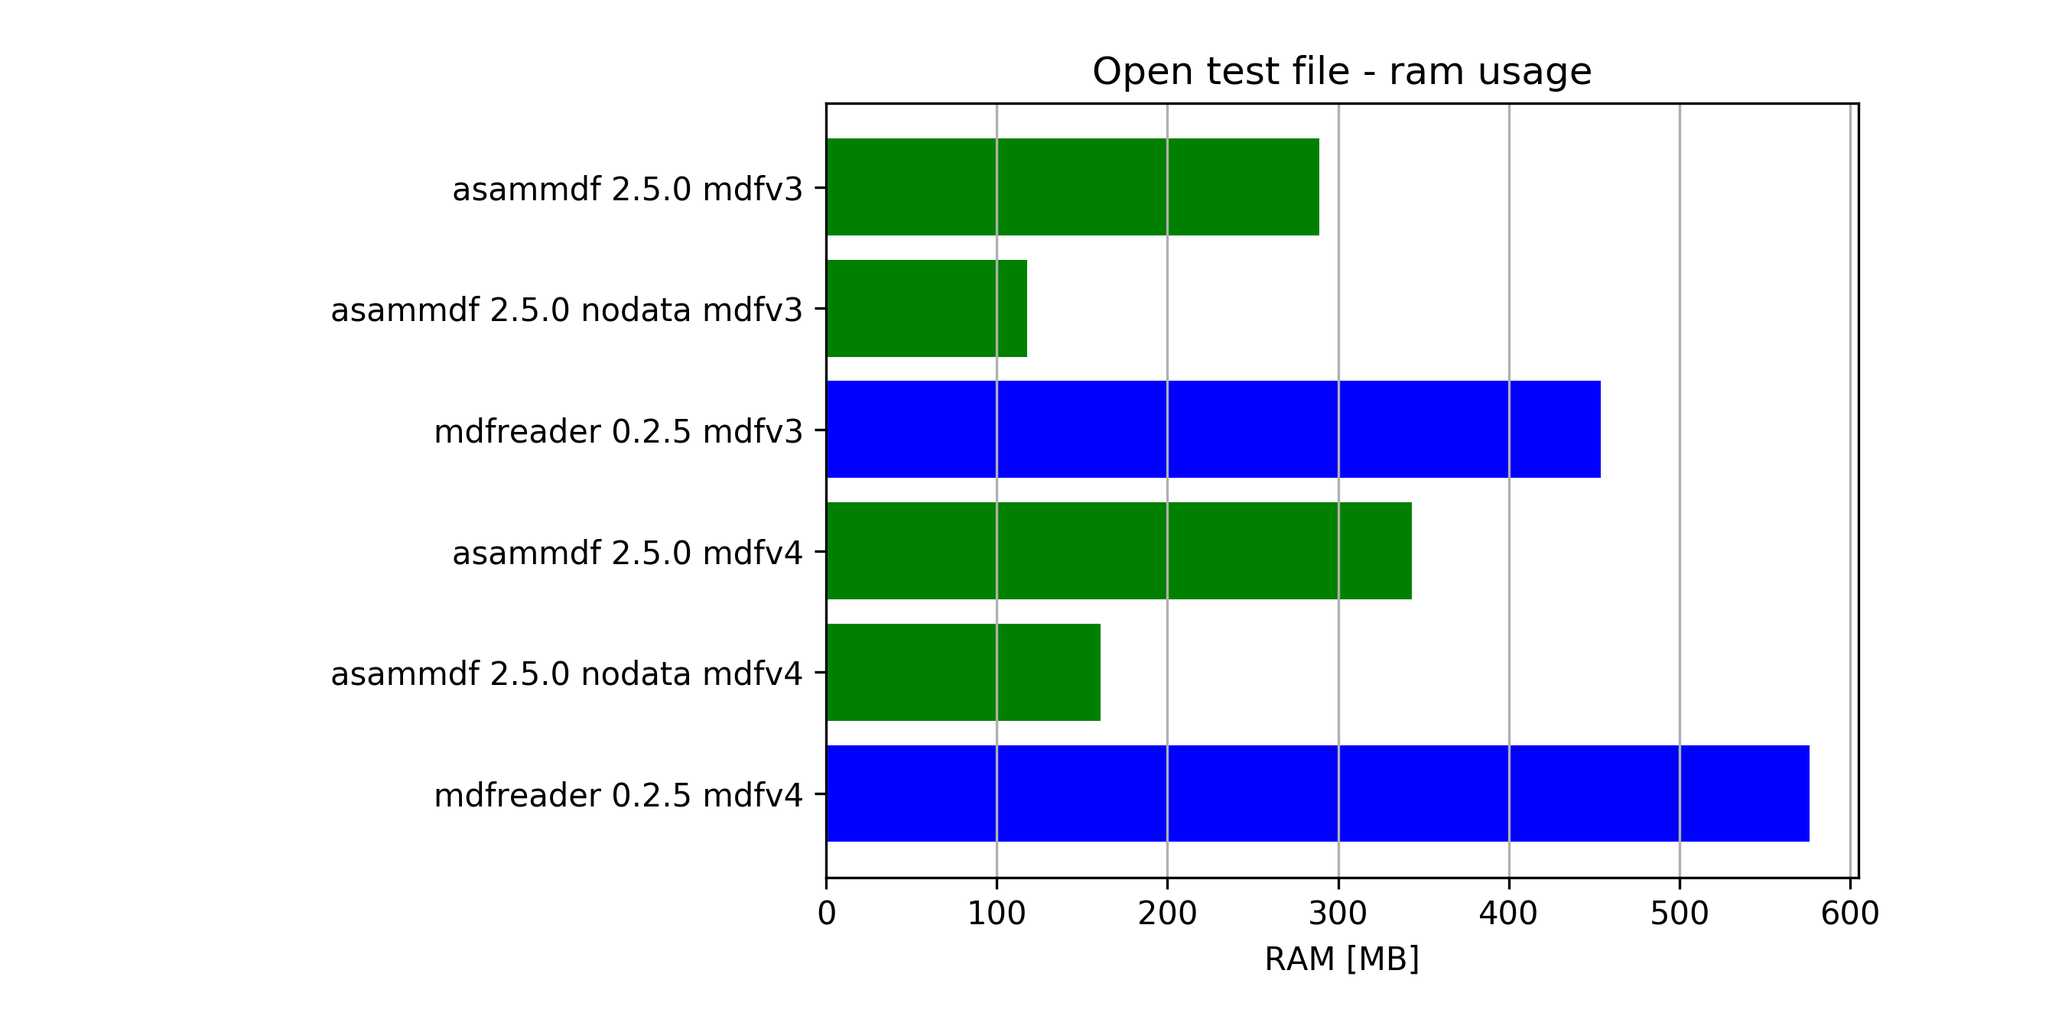
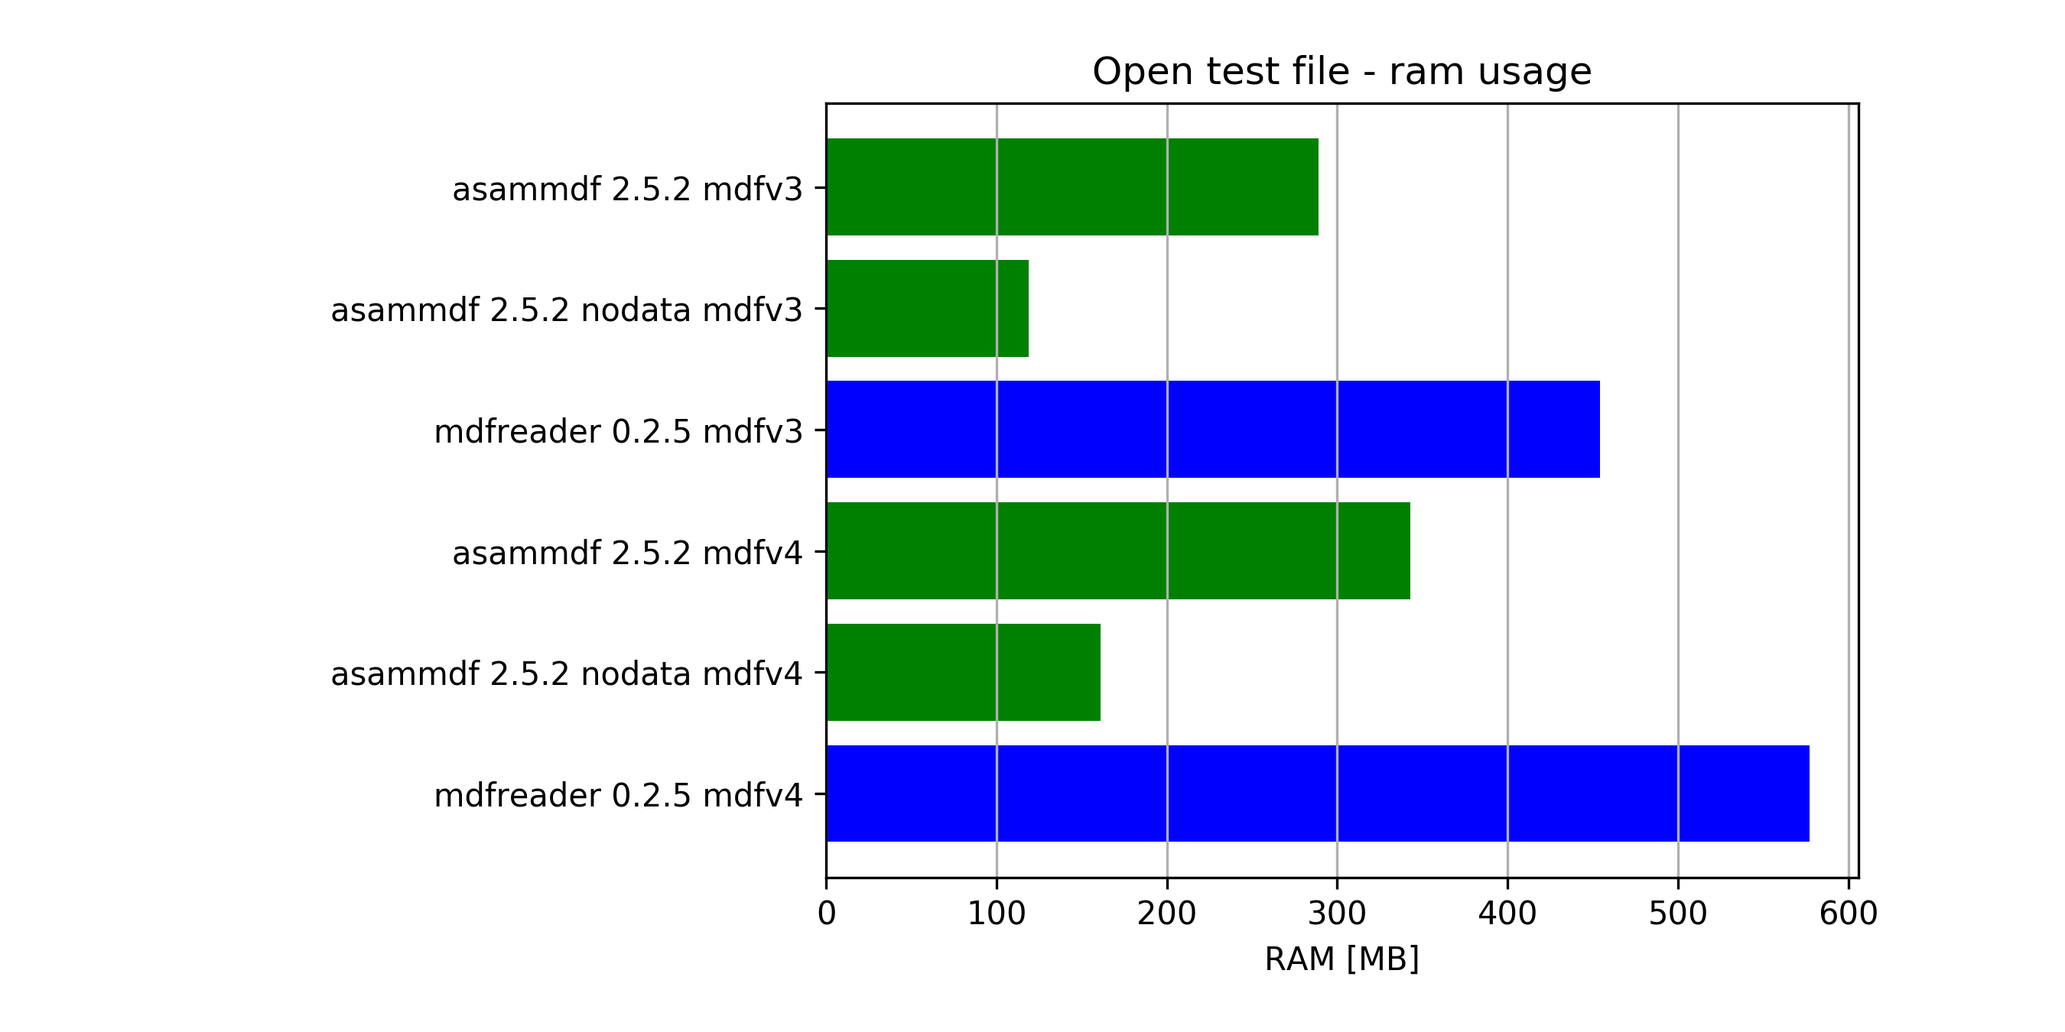
update benchmarks for release 2.5.2

diff --git a/benchmarks/gen_images.py b/benchmarks/gen_images.py
@@ -80,8 +80,8 @@ def f(res, topic, aspect, for_doc=False):
         plt.savefig(name, dpi=300)
 
 
-for file in (r'e:\02__PythonWorkspace\asammdf\benchmarks\results\x64_asammdf_2.5.0_mdfreader_0.2.5.txt',
-              r'e:\02__PythonWorkspace\asammdf\benchmarks\results\x86_asammdf_2.5.0_mdfreader_0.2.5.txt'):
+for file in (r'e:\02__PythonWorkspace\asammdf\benchmarks\results\x64_asammdf_2.5.2_mdfreader_0.2.5.txt',
+              r'e:\02__PythonWorkspace\asammdf\benchmarks\results\x86_asammdf_2.5.2_mdfreader_0.2.5.txt'):
     for topic in ('Open', 'Save', 'Get', 'Convert', 'Merge'):
         for aspect in ('time', 'ram'):
             f(file, topic, aspect)

diff --git a/README.rst b/README.rst
@@ -107,9 +107,12 @@ Benchmark environment
 * Intel64 Family 6 Model 94 Stepping 3, GenuineIntel
 * 16GB installed RAM
 
-Notations used in the results:
+Notations used in the results
 
 * nodata = asammdf MDF object created with load_measured_data=False (raw channel data not loaded into RAM)
+* compression = mdfreader mdf object created with compression=blosc
+* compression bcolz 6 = mdfreader mdf object created with compression=6
+* noDataLoading = mdfreader mdf object read with noDataLoading=True
 
 Files used for benchmark:
 
@@ -120,46 +123,56 @@ Files used for benchmark:
 ================================================== ========= ========
 Open file                                          Time [ms] RAM [MB]
 ================================================== ========= ========
-asammdf 2.5.0 mdfv3                                     1009      289
-asammdf 2.5.0 nodata mdfv3                               663      118
-mdfreader 0.2.5 mdfv3                                   3705      454
-asammdf 2.5.0 mdfv4                                     2031      343
-asammdf 2.5.0 nodata mdfv4                              1690      161
-mdfreader 0.2.5 mdfv4                                  42315      576
+asammdf 2.5.2 mdfv3                                      951      289
+asammdf 2.5.2 nodata mdfv3                               667      119
+mdfreader 0.2.5 mdfv3                                   3628      454
+asammdf 2.5.2 mdfv4                                     2142      343
+asammdf 2.5.2 nodata mdfv4                              1585      161
+mdfreader 0.2.5 mdfv4                                  42997      577
 ================================================== ========= ========
 
 
 ================================================== ========= ========
 Save file                                          Time [ms] RAM [MB]
 ================================================== ========= ========
-asammdf 2.5.0 mdfv3                                      439      293
-asammdf 2.5.0 nodata mdfv3                               462      126
-mdfreader 0.2.5 mdfv3                                  19759     1224
-asammdf 2.5.0 mdfv4                                      691      354
-asammdf 2.5.0 nodata mdfv4                               712      174
-mdfreader 0.2.5 mdfv4                                  17415     1686
+asammdf 2.5.2 mdfv3                                      530      293
+asammdf 2.5.2 nodata mdfv3                               457      126
+mdfreader 0.2.5 mdfv3                                  19931     1225
+asammdf 2.5.2 mdfv4                                      705      354
+asammdf 2.5.2 nodata mdfv4                               707      175
+mdfreader 0.2.5 mdfv4                                  17803     1686
 ================================================== ========= ========
 
 
 ================================================== ========= ========
 Get all channels (36424 calls)                     Time [ms] RAM [MB]
 ================================================== ========= ========
-asammdf 2.5.0 mdfv3                                      807      298
-asammdf 2.5.0 nodata mdfv3                             18500      132
+asammdf 2.5.2 mdfv3                                      865      298
+asammdf 2.5.2 nodata mdfv3                             18442      132
 mdfreader 0.2.5 mdfv3                                     36      454
-asammdf 2.5.0 mdfv4                                      804      349
-asammdf 2.5.0 nodata mdfv4                             21315      171
-mdfreader 0.2.5 mdfv4                                     49      577
+asammdf 2.5.2 mdfv4                                      803      349
+asammdf 2.5.2 nodata mdfv4                             20397      171
+mdfreader 0.2.5 mdfv4                                     48      577
 ================================================== ========= ========
 
 
 ================================================== ========= ========
 Convert file                                       Time [ms] RAM [MB]
 ================================================== ========= ========
-asammdf 2.5.0 v3 to v4                                  5834      709
-asammdf 2.5.0 v3 to v4 nodata                          28427      494
-asammdf 2.5.0 v4 to v3                                  5474      710
-asammdf 2.5.0 v4 to v3 nodata                          30423      638
+asammdf 2.5.2 v3 to v4                                  5824      690
+asammdf 2.5.2 v3 to v4 nodata                          28060      486
+asammdf 2.5.2 v4 to v3                                  5591      710
+asammdf 2.5.2 v4 to v3 nodata                          30169      638
+================================================== ========= ========
+
+
+================================================== ========= ========
+Merge files                                        Time [ms] RAM [MB]
+================================================== ========= ========
+asammdf 2.5.2 v3                                       13152     1226
+asammdf 2.5.2 v3 nodata                                53144      348
+asammdf 2.5.2 v4                                       15031     1296
+asammdf 2.5.2 v4 nodata                                60374      389
 ================================================== ========= ========
 
 
@@ -173,9 +186,12 @@ Benchmark environment
 * Intel64 Family 6 Model 94 Stepping 3, GenuineIntel
 * 16GB installed RAM
 
-Notations used in the results:
+Notations used in the results
 
 * nodata = asammdf MDF object created with load_measured_data=False (raw channel data not loaded into RAM)
+* compression = mdfreader mdf object created with compression=blosc
+* compression bcolz 6 = mdfreader mdf object created with compression=6
+* noDataLoading = mdfreader mdf object read with noDataLoading=True
 
 Files used for benchmark:
 
@@ -186,35 +202,35 @@ Files used for benchmark:
 ================================================== ========= ========
 Open file                                          Time [ms] RAM [MB]
 ================================================== ========= ========
-asammdf 2.5.0 mdfv3                                      821      371
-asammdf 2.5.0 nodata mdfv3                               653      191
-mdfreader 0.2.5 mdfv3                                   2909      537
-asammdf 2.5.0 mdfv4                                     1694      455
-asammdf 2.5.0 nodata mdfv4                              1297      260
-mdfreader 0.2.5 mdfv4                                  31074      748
+asammdf 2.5.2 mdfv3                                      832      372
+asammdf 2.5.2 nodata mdfv3                               615      191
+mdfreader 0.2.5 mdfv3                                   2876      537
+asammdf 2.5.2 mdfv4                                     1690      455
+asammdf 2.5.2 nodata mdfv4                              1289      260
+mdfreader 0.2.5 mdfv4                                  30755      748
 ================================================== ========= ========
 
 
 ================================================== ========= ========
 Save file                                          Time [ms] RAM [MB]
 ================================================== ========= ========
-asammdf 2.5.0 mdfv3                                      393      373
-asammdf 2.5.0 nodata mdfv3                               383      198
-mdfreader 0.2.5 mdfv3                                  21464     1997
-asammdf 2.5.0 mdfv4                                      586      465
-asammdf 2.5.0 nodata mdfv4                               550      275
-mdfreader 0.2.5 mdfv4                                  19036     2795
+asammdf 2.5.2 mdfv3                                      393      373
+asammdf 2.5.2 nodata mdfv3                               452      198
+mdfreader 0.2.5 mdfv3                                  21409     1997
+asammdf 2.5.2 mdfv4                                      552      465
+asammdf 2.5.2 nodata mdfv4                               563      275
+mdfreader 0.2.5 mdfv4                                  18899     2795
 ================================================== ========= ========
 
 
 ================================================== ========= ========
 Get all channels (36424 calls)                     Time [ms] RAM [MB]
 ================================================== ========= ========
-asammdf 2.5.0 mdfv3                                      613      381
-asammdf 2.5.0 nodata mdfv3                              9161      207
-mdfreader 0.2.5 mdfv3                                     28      536
-asammdf 2.5.0 mdfv4                                      606      464
-asammdf 2.5.0 nodata mdfv4                             12403      275
+asammdf 2.5.2 mdfv3                                      633      381
+asammdf 2.5.2 nodata mdfv3                              8703      207
+mdfreader 0.2.5 mdfv3                                     29      537
+asammdf 2.5.2 mdfv4                                      633      464
+asammdf 2.5.2 nodata mdfv4                             12241      274
 mdfreader 0.2.5 mdfv4                                     40      748
 ================================================== ========= ========
 
@@ -222,8 +238,18 @@ mdfreader 0.2.5 mdfv4                                     40      748
 ================================================== ========= ========
 Convert file                                       Time [ms] RAM [MB]
 ================================================== ========= ========
-asammdf 2.5.0 v3 to v4                                  4773      885
-asammdf 2.5.0 v3 to v4 nodata                          21903      605
-asammdf 2.5.0 v4 to v3                                  4823      882
-asammdf 2.5.0 v4 to v3 nodata                          26090      740
+asammdf 2.5.2 v3 to v4                                  4504      856
+asammdf 2.5.2 v3 to v4 nodata                          21983      592
+asammdf 2.5.2 v4 to v3                                  4731      883
+asammdf 2.5.2 v4 to v3 nodata                          26840      740
+================================================== ========= ========
+
+
+================================================== ========= ========
+Merge files                                        Time [ms] RAM [MB]
+================================================== ========= ========
+asammdf 2.5.2 v3                                       10572     1428
+asammdf 2.5.2 v3 nodata                                31014      519
+asammdf 2.5.2 v4                                       12852     1558
+asammdf 2.5.2 v4 nodata                                41054      610
 ================================================== ========= ========

diff --git a/documentation/benchmarks.rst b/documentation/benchmarks.rst
@@ -61,12 +61,12 @@ Raw data
 ================================================== ========= ========
 Open file                                          Time [ms] RAM [MB]
 ================================================== ========= ========
-asammdf 2.5.2 mdfv3                                      821      371
-asammdf 2.5.2 nodata mdfv3                               653      191
-mdfreader 0.2.5 mdfv3                                   2909      537
-asammdf 2.5.2 mdfv4                                     1694      455
-asammdf 2.5.2 nodata mdfv4                              1297      260
-mdfreader 0.2.5 mdfv4                                  31074      748
+asammdf 2.5.2 mdfv3                                      832      372
+asammdf 2.5.2 nodata mdfv3                               615      191
+mdfreader 0.2.5 mdfv3                                   2876      537
+asammdf 2.5.2 mdfv4                                     1690      455
+asammdf 2.5.2 nodata mdfv4                              1289      260
+mdfreader 0.2.5 mdfv4                                  30755      748
 ================================================== ========= ========
 
 
@@ -74,22 +74,22 @@ mdfreader 0.2.5 mdfv4                                  31074      748
 Save file                                          Time [ms] RAM [MB]
 ================================================== ========= ========
 asammdf 2.5.2 mdfv3                                      393      373
-asammdf 2.5.2 nodata mdfv3                               383      198
-mdfreader 0.2.5 mdfv3                                  21464     1997
-asammdf 2.5.2 mdfv4                                      586      465
-asammdf 2.5.2 nodata mdfv4                               550      275
-mdfreader 0.2.5 mdfv4                                  19036     2795
+asammdf 2.5.2 nodata mdfv3                               452      198
+mdfreader 0.2.5 mdfv3                                  21409     1997
+asammdf 2.5.2 mdfv4                                      552      465
+asammdf 2.5.2 nodata mdfv4                               563      275
+mdfreader 0.2.5 mdfv4                                  18899     2795
 ================================================== ========= ========
 
 
 ================================================== ========= ========
 Get all channels (36424 calls)                     Time [ms] RAM [MB]
 ================================================== ========= ========
-asammdf 2.5.2 mdfv3                                      613      381
-asammdf 2.5.2 nodata mdfv3                              9161      207
-mdfreader 0.2.5 mdfv3                                     28      536
-asammdf 2.5.2 mdfv4                                      606      464
-asammdf 2.5.2 nodata mdfv4                             12403      275
+asammdf 2.5.2 mdfv3                                      633      381
+asammdf 2.5.2 nodata mdfv3                              8703      207
+mdfreader 0.2.5 mdfv3                                     29      537
+asammdf 2.5.2 mdfv4                                      633      464
+asammdf 2.5.2 nodata mdfv4                             12241      274
 mdfreader 0.2.5 mdfv4                                     40      748
 ================================================== ========= ========
 
@@ -97,10 +97,20 @@ mdfreader 0.2.5 mdfv4                                     40      748
 ================================================== ========= ========
 Convert file                                       Time [ms] RAM [MB]
 ================================================== ========= ========
-asammdf 2.5.2 v3 to v4                                  4773      885
-asammdf 2.5.2 v3 to v4 nodata                          21903      605
-asammdf 2.5.2 v4 to v3                                  4823      882
-asammdf 2.5.2 v4 to v3 nodata                          26090      740
+asammdf 2.5.2 v3 to v4                                  4504      856
+asammdf 2.5.2 v3 to v4 nodata                          21983      592
+asammdf 2.5.2 v4 to v3                                  4731      883
+asammdf 2.5.2 v4 to v3 nodata                          26840      740
+================================================== ========= ========
+
+
+================================================== ========= ========
+Merge files                                        Time [ms] RAM [MB]
+================================================== ========= ========
+asammdf 2.5.2 v3                                       10572     1428
+asammdf 2.5.2 v3 nodata                                31014      519
+asammdf 2.5.2 v4                                       12852     1558
+asammdf 2.5.2 v4 nodata                                41054      610
 ================================================== ========= ========
 
 Graphical results
@@ -839,46 +849,56 @@ Raw data
 ================================================== ========= ========
 Open file                                          Time [ms] RAM [MB]
 ================================================== ========= ========
-asammdf 2.5.2 mdfv3                                     1009      289
-asammdf 2.5.2 nodata mdfv3                               663      118
-mdfreader 0.2.5 mdfv3                                   3705      454
-asammdf 2.5.2 mdfv4                                     2031      343
-asammdf 2.5.2 nodata mdfv4                              1690      161
-mdfreader 0.2.5 mdfv4                                  42315      576
+asammdf 2.5.2 mdfv3                                      951      289
+asammdf 2.5.2 nodata mdfv3                               667      119
+mdfreader 0.2.5 mdfv3                                   3628      454
+asammdf 2.5.2 mdfv4                                     2142      343
+asammdf 2.5.2 nodata mdfv4                              1585      161
+mdfreader 0.2.5 mdfv4                                  42997      577
 ================================================== ========= ========
 
 
 ================================================== ========= ========
 Save file                                          Time [ms] RAM [MB]
 ================================================== ========= ========
-asammdf 2.5.2 mdfv3                                      439      293
-asammdf 2.5.2 nodata mdfv3                               462      126
-mdfreader 0.2.5 mdfv3                                  19759     1224
-asammdf 2.5.2 mdfv4                                      691      354
-asammdf 2.5.2 nodata mdfv4                               712      174
-mdfreader 0.2.5 mdfv4                                  17415     1686
+asammdf 2.5.2 mdfv3                                      530      293
+asammdf 2.5.2 nodata mdfv3                               457      126
+mdfreader 0.2.5 mdfv3                                  19931     1225
+asammdf 2.5.2 mdfv4                                      705      354
+asammdf 2.5.2 nodata mdfv4                               707      175
+mdfreader 0.2.5 mdfv4                                  17803     1686
 ================================================== ========= ========
 
 
 ================================================== ========= ========
 Get all channels (36424 calls)                     Time [ms] RAM [MB]
 ================================================== ========= ========
-asammdf 2.5.2 mdfv3                                      807      298
-asammdf 2.5.2 nodata mdfv3                             18500      132
+asammdf 2.5.2 mdfv3                                      865      298
+asammdf 2.5.2 nodata mdfv3                             18442      132
 mdfreader 0.2.5 mdfv3                                     36      454
-asammdf 2.5.2 mdfv4                                      804      349
-asammdf 2.5.2 nodata mdfv4                             21315      171
-mdfreader 0.2.5 mdfv4                                     49      577
+asammdf 2.5.2 mdfv4                                      803      349
+asammdf 2.5.2 nodata mdfv4                             20397      171
+mdfreader 0.2.5 mdfv4                                     48      577
 ================================================== ========= ========
 
 
 ================================================== ========= ========
 Convert file                                       Time [ms] RAM [MB]
 ================================================== ========= ========
-asammdf 2.5.2 v3 to v4                                  5834      709
-asammdf 2.5.2 v3 to v4 nodata                          28427      494
-asammdf 2.5.2 v4 to v3                                  5474      710
-asammdf 2.5.2 v4 to v3 nodata                          30423      638
+asammdf 2.5.2 v3 to v4                                  5824      690
+asammdf 2.5.2 v3 to v4 nodata                          28060      486
+asammdf 2.5.2 v4 to v3                                  5591      710
+asammdf 2.5.2 v4 to v3 nodata                          30169      638
+================================================== ========= ========
+
+
+================================================== ========= ========
+Merge files                                        Time [ms] RAM [MB]
+================================================== ========= ========
+asammdf 2.5.2 v3                                       13152     1226
+asammdf 2.5.2 v3 nodata                                53144      348
+asammdf 2.5.2 v4                                       15031     1296
+asammdf 2.5.2 v4 nodata                                60374      389
 ================================================== ========= ========
 
 

diff --git a/README.md b/README.md
@@ -113,6 +113,10 @@ Python 3 x64
 
 ![](benchmarks/x64_convert_ram_usage.png)
 
+![](benchmarks/x64_merge.png)
+
+![](benchmarks/x64_merge_ram_usage.png)
+
 Python 3 x86
 ------------
 
@@ -131,3 +135,7 @@ Python 3 x86
 ![](benchmarks/x86_convert.png)
 
 ![](benchmarks/x86_convert_ram_usage.png)
+
+![](benchmarks/x86_merge.png)
+
+![](benchmarks/x86_merge_ram_usage.png)
